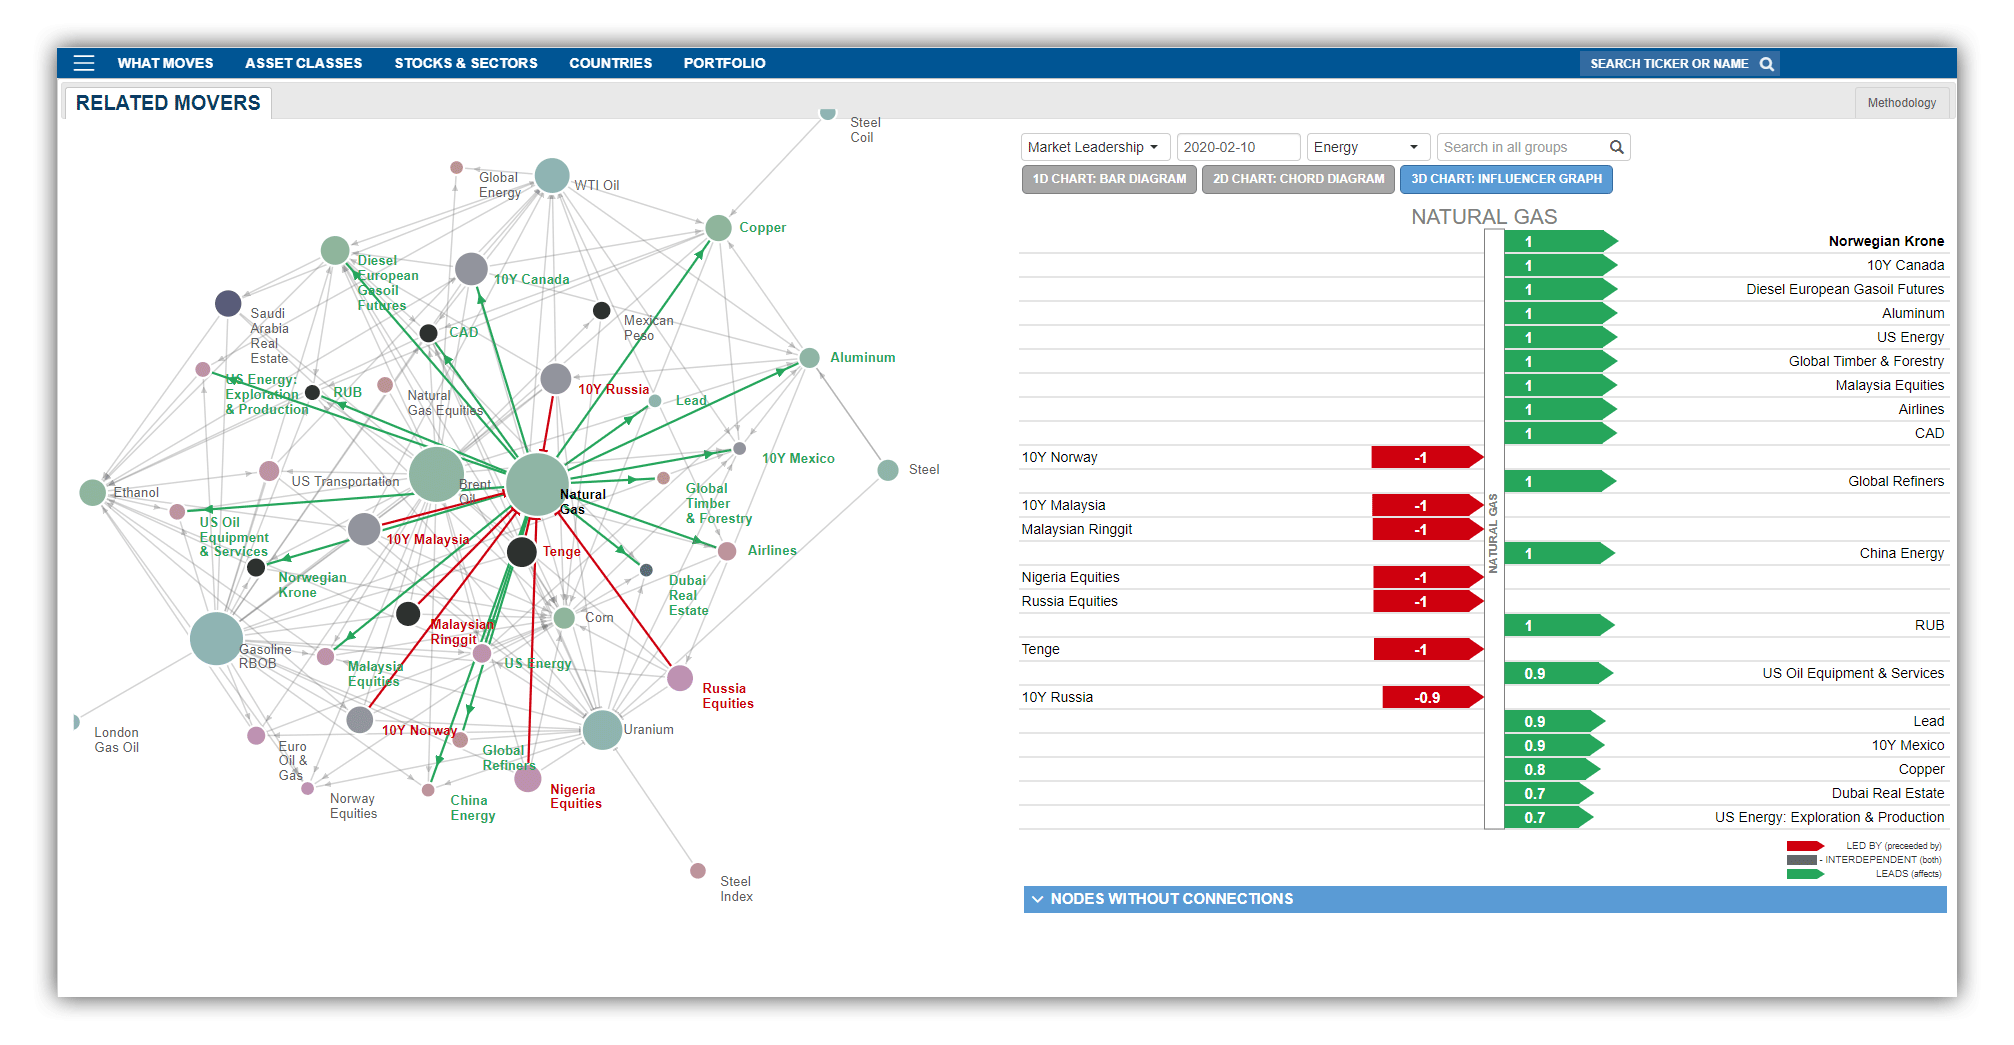
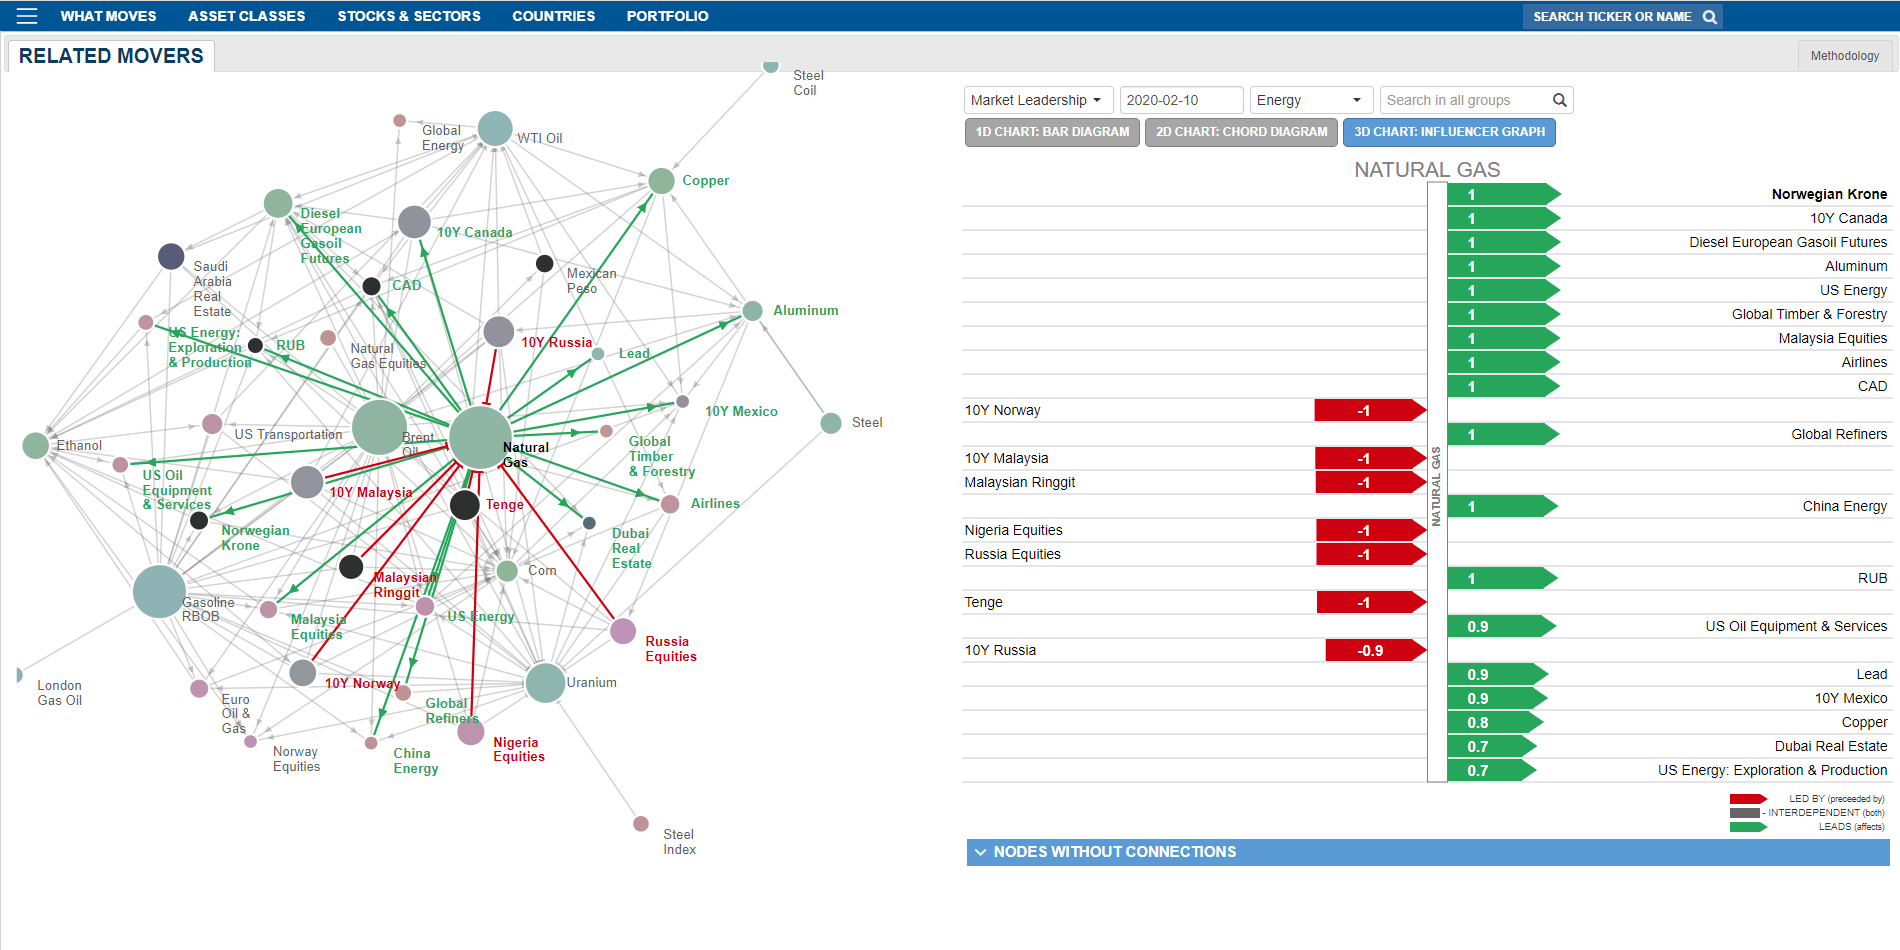
fix slide box-shadow

Changed region(s): [[0.0, 0.0, 1.0, 0.9768], [0.3105, 0.8242, 0.3726, 0.9158]]

diff --git a/tenviz-landing-page/index.html b/tenviz-landing-page/index.html
@@ -65,13 +65,13 @@
 					</div>
 
 					<div class="ag-content-slider lazy slider">
-						<div>
+						<div class="image-item-block">
 							<img src="img/slider-img/alpha-generation/ag1.png" data-src="img/slider-img/alpha-generation/ag1.png" alt="img" class="image-enlargement-item">
 						</div>
-						<div>
+						<div class="image-item-block">
 							<img src="img/slider-img/alpha-generation/ag2.png" data-src="img/slider-img/alpha-generation/ag2.png" alt="img" class="image-enlargement-item">
 						</div>
-						<div>
+						<div class="image-item-block">
 							<img src="img/slider-img/alpha-generation/ag3.png" data-src="img/slider-img/alpha-generation/ag3.png" alt="img" class="image-enlargement-item">
 						</div>
 					</div>
@@ -104,10 +104,11 @@
 					</div>
 
 					<div class="prm-content-slider lazy slider">
-						<div class="prm-content-slide-prm1">
+						<!-- <div class="prm-content-slide-prm1"> -->
+						<div class="image-item-block">
 							<img src="img/slider-img/predictive-risk-management/prm1.png" data-src="img/slider-img/predictive-risk-management/prm1.png" alt="img" class="image-enlargement-item">
 						</div>
-						<div class="prm-content-slide-prm2">
+						<div class="image-item-block">
 							<img src="img/slider-img/predictive-risk-management/prm2.png" data-src="img/slider-img/predictive-risk-management/prm2.png" alt="img" class="image-enlargement-item">
 						</div>
 					</div>
@@ -132,10 +133,12 @@
 					</div>
 
 					<div class="cm-content-slider lazy slider">
-						<div class="cm-content-slide-cm1">
+						<!-- <div class="cm-content-slide-cm1"> -->
+						<div class="image-item-block">
 							<img src="img/slider-img/credit-monitor/cm1.png" data-src="img/slider-img/credit-monitor/cm1.png" alt="img" class="image-enlargement-item">
 						</div>
-						<div class="cm-content-slide-cm2">
+						<!-- <div class="cm-content-slide-cm2"> -->
+						<div class="image-item-block">
 							<img src="img/slider-img/credit-monitor/cm2.png" data-src="img/slider-img/credit-monitor/cm2.png" alt="img" class="image-enlargement-item">
 						</div>
 					</div>

diff --git a/tenviz-landing-page/css/style.css b/tenviz-landing-page/css/style.css
@@ -223,12 +223,18 @@ img {
 	width: 45%;
 }
 
-.landing-page-content .macro-regimes-monitor-content .mrm-content-slider .image-item-block {
+.landing-page-content .macro-regimes-monitor-content .mrm-content-slider .image-item-block,
+.landing-page-content .alpha-generation-content .ag-content-slider .image-item-block,
+.landing-page-content .predictive-risk-management-content .prm-content-slider .image-item-block,
+.landing-page-content .credit-monitor-content .cm-content-slider .image-item-block {
 	padding: 25px;
 	box-sizing: border-box;
 }
 
-.landing-page-content .macro-regimes-monitor-content .mrm-content-slider .image-item-block img {
+.landing-page-content .macro-regimes-monitor-content .mrm-content-slider .image-item-block img,
+.landing-page-content .alpha-generation-content .ag-content-slider .image-item-block img,
+.landing-page-content .predictive-risk-management-content .prm-content-slider .image-item-block img,
+.landing-page-content .credit-monitor-content .cm-content-slider .image-item-block img  {
 	-webkit-box-shadow: 0px 0px 20px 0px rgba(0,0,0,0.72);
 	-moz-box-shadow: 0px 0px 20px 0px rgba(0,0,0,0.72);
 	box-shadow: 0px 0px 20px 0px rgba(0,0,0,0.72);
